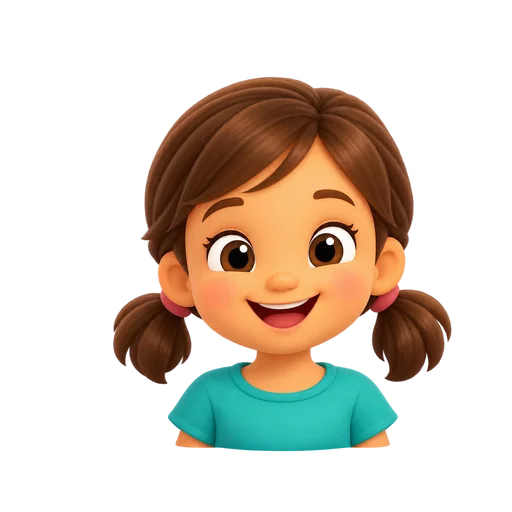
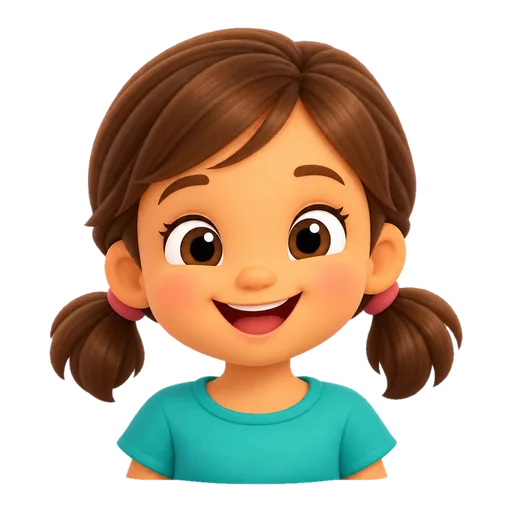
tools/cut_sheet.py: cut a 3x3 word-picture sheet into game pictures

diff --git a/tools/cut_sheet.py b/tools/cut_sheet.py
@@ -1,0 +1,79 @@
+"""Cut a 3x3 word-picture sheet (docs/word-pictures.md) into game pictures.
+
+  py -3.10 tools/cut_sheet.py "C:/Users/ahmma/Downloads/GooGoo Robo background/pictures/sheet-01.png" 01
+  py -3.10 tools/cut_sheet.py ".../brother.png" brother      (a single picture: its word id)
+
+Each square: the white background around it becomes transparent (flood fill from the edges, so white
+inside the picture stays), trimmed, centred on a 512x512 square -> assets/pics/<word>.webp, and its emoji is
+added to PICART in src_pash-robot.html. Then run tools/build.py.
+"""
+import json, re, sys, pathlib
+from PIL import Image, ImageDraw, ImageFilter
+
+ROOT = pathlib.Path(__file__).resolve().parent.parent
+SRC = ROOT / "src_pash-robot.html"
+
+
+def words():
+    s = SRC.read_text(encoding="utf-8")
+    return {w[0]: w for w in json.loads(re.search(r"const SAY_WORDS=(\[.*?\]\]);", s).group(1))}
+
+
+def sheet_ids(n):
+    W = words(); en = {w[3]: k for k, w in W.items()}
+    line = re.search(rf"^\*\*Sheet {int(n):02d}:\*\* (.+)$", (ROOT / "docs/word-pictures.md").read_text(encoding="utf-8"), re.M).group(1)
+    return [en[p.rsplit(" ", 1)[0]] for p in line.split(", ")]
+
+
+def cutout(im, tol=232):
+    """white background (touching the edges) -> transparent; returns the trimmed RGBA picture or None if empty"""
+    im = im.convert("RGBA")
+    if im.getextrema()[3][0] < 250:  # already has transparency
+        a = im.getchannel("A")
+    else:
+        m = Image.eval(im.convert("RGB").split()[0], lambda v: 0).copy()
+        px, r = m.load(), im.load()
+        for y in range(im.height):
+            for x in range(im.width):
+                if min(r[x, y][:3]) >= tol: px[x, y] = 255
+        for x, y in [(0, 0), (im.width - 1, 0), (0, im.height - 1), (im.width - 1, im.height - 1)] + [(x, 0) for x in range(0, im.width, 16)] + [(x, im.height - 1) for x in range(0, im.width, 16)] + [(0, y) for y in range(0, im.height, 16)] + [(im.width - 1, y) for y in range(0, im.height, 16)]:
+            if px[x, y] == 255: ImageDraw.floodfill(m, (x, y), 128)
+        a = m.point(lambda v: 0 if v == 128 else 255).filter(ImageFilter.MinFilter(3)).filter(ImageFilter.GaussianBlur(1))
+    im.putalpha(a)
+    box = a.point(lambda v: 255 if v > 24 else 0).getbbox()
+    return im.crop(box) if box else None
+
+
+def save(pic, wid, size=512, pad=.06):
+    s = int(max(pic.size) * (1 + 2 * pad)); c = Image.new("RGBA", (s, s), (0, 0, 0, 0))
+    c.paste(pic, ((s - pic.width) // 2, (s - pic.height) // 2)); c = c.resize((size, size), Image.LANCZOS)
+    out = ROOT / "assets/pics" / f"{wid}.webp"; out.parent.mkdir(exist_ok=True); c.save(out, "WEBP", quality=85, method=6); return out
+
+
+def add_picart(pairs):
+    s = SRC.read_text(encoding="utf-8"); m = re.search(r"const PICART=\{(.*?)\}", s)
+    cur = dict(re.findall(r"'([^']+)':'([^']+)'", m.group(1))); cur.update(pairs)
+    s = s[:m.start(1)] + ",".join(f"'{e}':'{n}'" for e, n in cur.items()) + s[m.end(1):]
+    SRC.write_text(s, encoding="utf-8", newline="")
+
+
+def main(path, what):
+    W = words(); im = Image.open(path)
+    if what in W: cells = [(what, im)]
+    else:
+        ids = sheet_ids(what); w, h = im.width / 3, im.height / 3
+        cells = [(ids[i], im.crop((round(i % 3 * w), round(i // 3 * h), round((i % 3 + 1) * w), round((i // 3 + 1) * h)))) for i in range(len(ids))]
+    pairs = {}
+    for wid, cell in cells:
+        pic = cutout(cell)
+        if not pic: print("EMPTY", wid); continue
+        print(wid, save(pic, wid).name, pic.size); pairs[W[wid][4]] = wid
+    add_picart(pairs)
+
+
+if __name__ == "__main__":
+    if len(sys.argv) == 3: main(*sys.argv[1:])
+    else:  # self-check: a white square with a red disc (white inside it) cuts to the disc, inside kept
+        t = Image.new("RGB", (100, 100), "white"); d = ImageDraw.Draw(t); d.ellipse((20, 20, 80, 80), fill="red"); d.ellipse((45, 45, 55, 55), fill="white")
+        p = cutout(t); assert abs(p.width - 61) <= 3 and p.getpixel((p.width // 2, p.height // 2))[3] == 255 and p.getpixel((0, 0))[3] < 40, (p.size, p.getpixel((0, 0)))
+        assert sheet_ids(1)[0] == "ball" and len(sheet_ids(25)) >= 1; print("ok")

diff --git a/docs/word-pictures.md b/docs/word-pictures.md
@@ -8,7 +8,7 @@ Done: sister (`assets/pics/sister.webp`).
 
 1. New image chat. Attach `Sister.png` as the style reference.
 2. Paste the style prompt below, then one sheet line (9 things in a 3x3 grid).
-3. Save the sheet into `Downloads\GooGoo Robo background\pictures\` named `sheet-01.png`, `sheet-02.png`... Claude cuts it into the 9 pictures and puts them in the game.
+3. Save the sheet into `DownloadsGooGoo Robo backgroundpictures` named `sheet-01.png`, `sheet-02.png`... Claude cuts it with `py -3.10 tools/cut_sheet.py <sheet> 01` (white background removed, 512px WebP in assets/pics, emoji added to PICART), then builds.
    (Single pictures are fine too: name them after the word, e.g. `brother.png`.)
 
 Check before sending: one thing per square, nothing touching another square, no writing or numbers in the picture (except the number sheet), nothing cut off at the edges.
